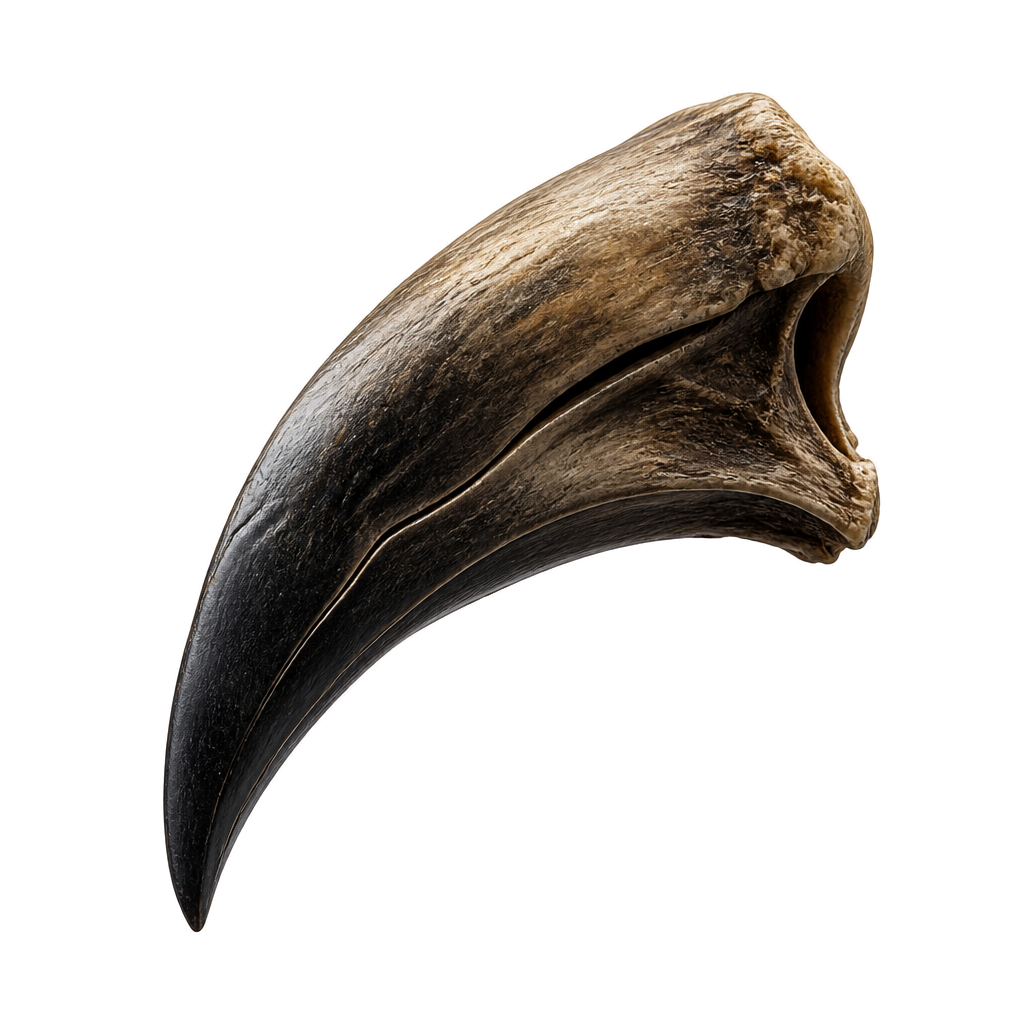
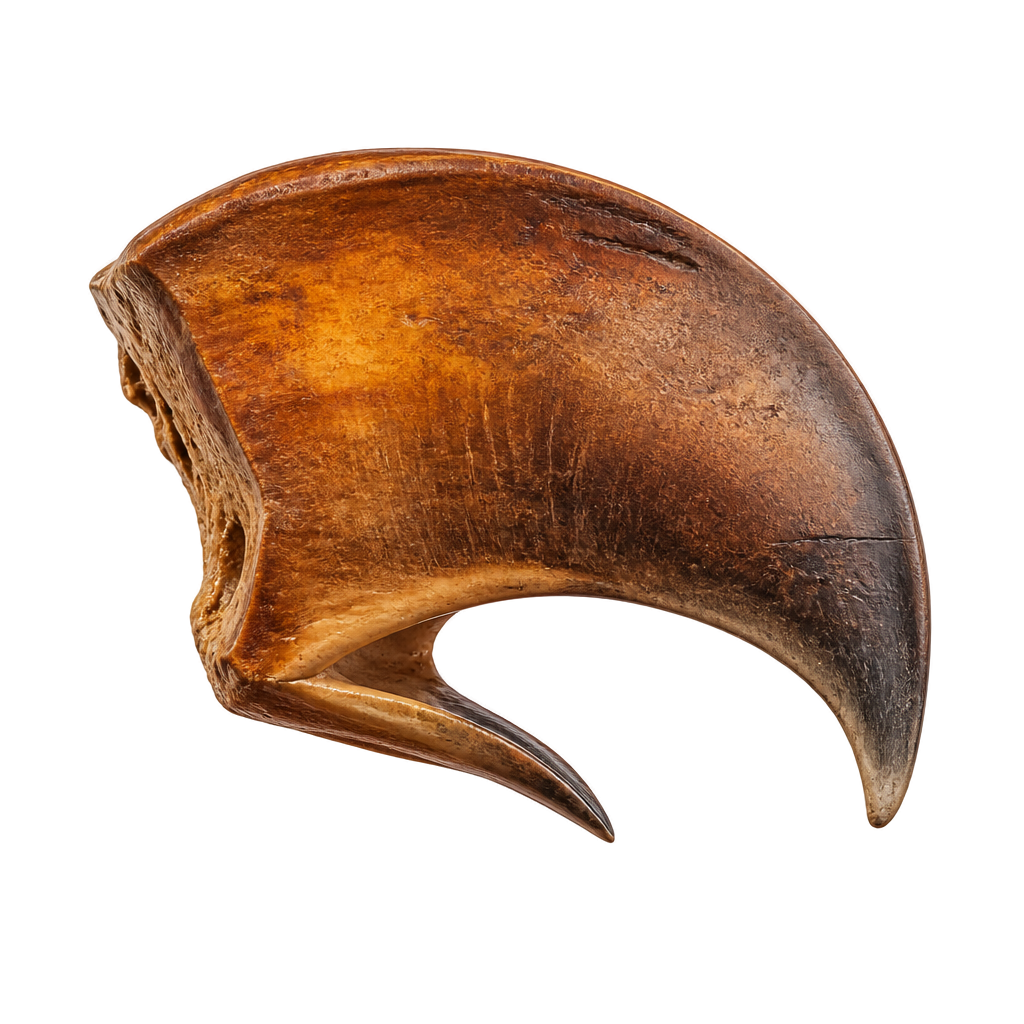
feat(items): 5 PNGs regenerados + auto-swap SVG→PNG via MutationObserver
PNGs regenerados (quality=low, ~$0.05 total):
- bordao: cajado simples sem ornamento (era detalhado demais)
- perola: brilho iridescente preservado (rembg com fundo verde #00FF00)
- botas-de-velocidade: ivory + wind cyan preservados (fundo verde)
- lagrima-cristalina: teardrop transparente preservado (fundo verde)
- bico-de-axe-beak: bico orgânico com gume hatchet-like (NÃO machado)

items-resolver.js: MutationObserver auto-swap
- Detecta SVG `<use href="#ic-it-X">` adicionado dinamicamente ao DOM
- Substitui por PNG automaticamente se manifest tem o slug
- Elimina necessidade de chamar vItems.upgrade() manualmente em cada popup
- Garante "nenhum local usa SVG" quando há PNG correspondente

diff --git a/shared/items-resolver.js b/shared/items-resolver.js
@@ -359,4 +359,66 @@
   // Auto-preload manifest on script load so iconHTML() returns PNG
   // on first inventory open without delay. Non-blocking — async fetch.
   loadManifest();
+
+  /* ============================================================
+   * 2026-05-19: AUTO-SWAP via MutationObserver — garante que TODO
+   * novo <svg><use href="#ic-it-X"/> adicionado dinamicamente ao
+   * DOM seja substituído por PNG se o manifest tem o slug.
+   *
+   * Elimina necessidade de chamar vItems.upgrade() manualmente
+   * em cada popup/render. User pediu "garanta que nenhum local
+   * use mais os SVGs" — esta é a única forma robusta.
+   * ============================================================ */
+  function tryAutoSwapNode(node) {
+    if (!node || node.nodeType !== 1) return;
+    if (node.tagName === 'USE' || node.localName === 'use') {
+      swapSvgUseToPng(node);
+      return;
+    }
+    // Element node — varre <use> dentro
+    var uses = node.querySelectorAll && node.querySelectorAll('svg use');
+    if (uses && uses.length) {
+      for (var i = 0; i < uses.length; i++) {
+        swapSvgUseToPng(uses[i]);
+      }
+    }
+  }
+
+  function startAutoSwapObserver() {
+    if (typeof MutationObserver === 'undefined' || !document.body) {
+      // body ainda não pronto — adiar
+      if (typeof document !== 'undefined') {
+        document.addEventListener('DOMContentLoaded', startAutoSwapObserver, { once: true });
+      }
+      return;
+    }
+    // Varre o DOM atual uma vez (cobre estado inicial)
+    loadManifest().then(function () {
+      tryAutoSwapNode(document.body);
+    });
+
+    var observer = new MutationObserver(function (mutations) {
+      // Throttle: agrupa mutations e processa após manifest pronto
+      if (!manifestState.loaded) return;
+      for (var i = 0; i < mutations.length; i++) {
+        var m = mutations[i];
+        if (m.addedNodes && m.addedNodes.length) {
+          for (var j = 0; j < m.addedNodes.length; j++) {
+            tryAutoSwapNode(m.addedNodes[j]);
+          }
+        }
+      }
+    });
+    observer.observe(document.body, { childList: true, subtree: true });
+    global.vItems._observer = observer;
+    console.info('[items-resolver] MutationObserver auto-swap active');
+  }
+
+  if (typeof document !== 'undefined') {
+    if (document.readyState === 'loading') {
+      document.addEventListener('DOMContentLoaded', startAutoSwapObserver, { once: true });
+    } else {
+      startAutoSwapObserver();
+    }
+  }
 })(typeof window !== 'undefined' ? window : this);
